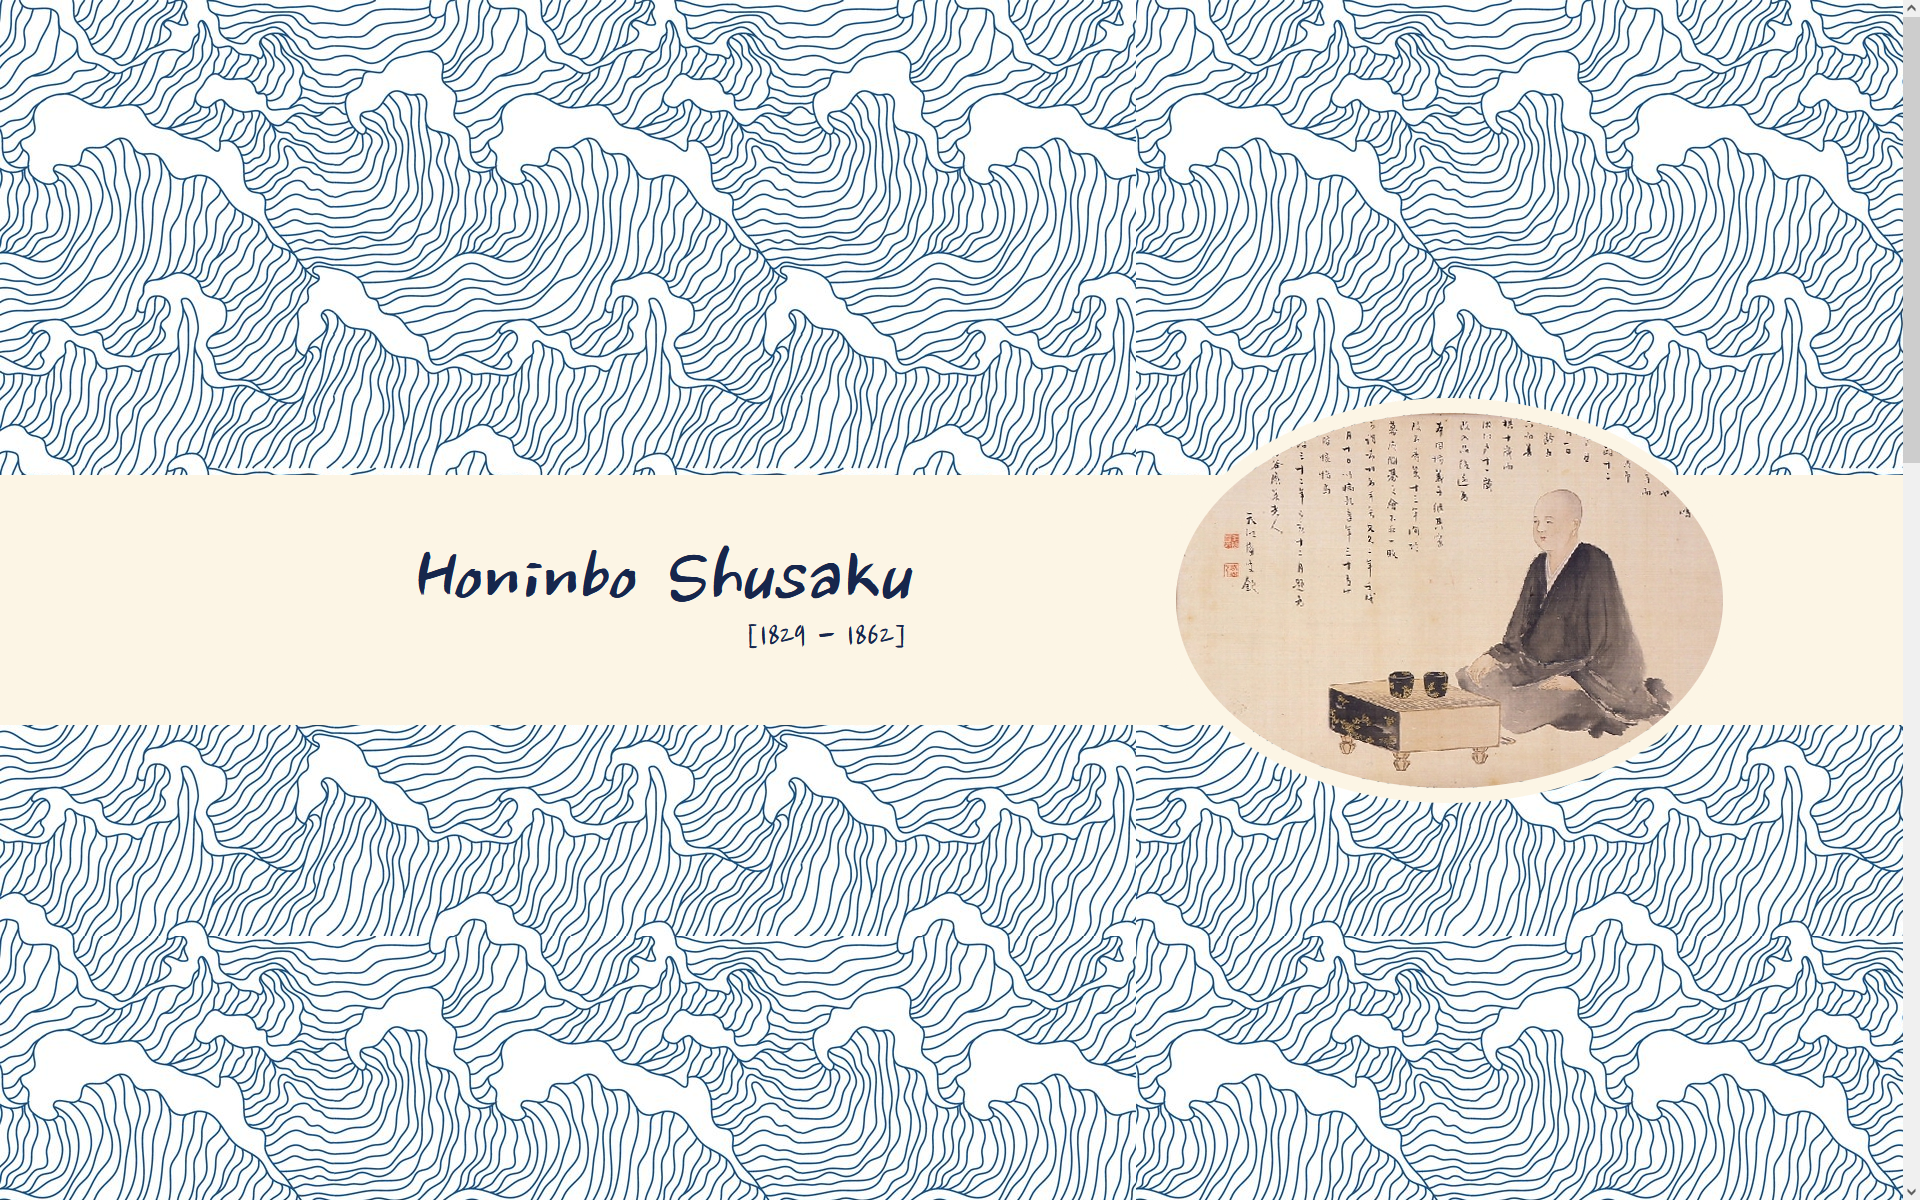
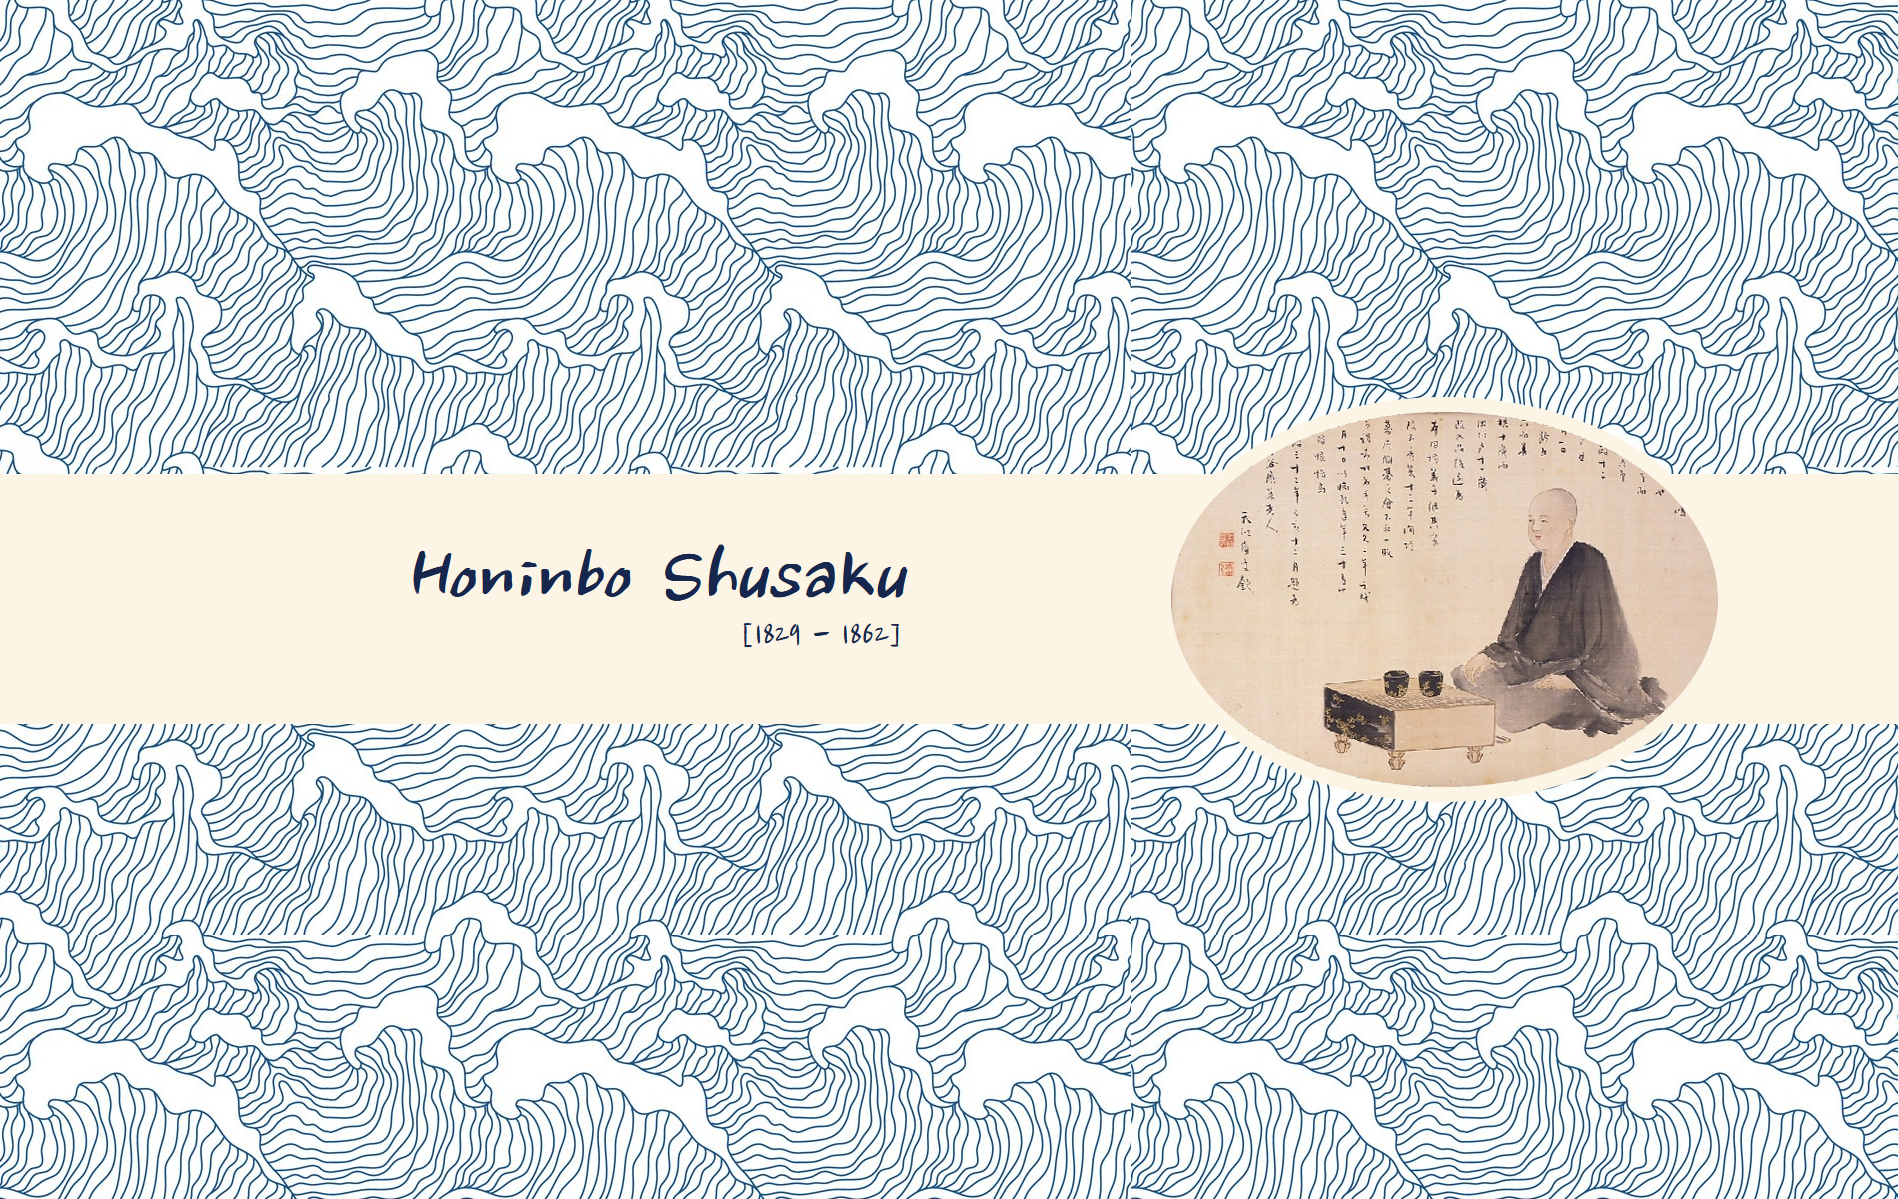
README update, screenshot update

diff --git a/RWD2 - Tribute Page/README.md b/RWD2 - Tribute Page/README.md
@@ -14,13 +14,12 @@ Build an app that is functionally similar to [https://tribute-page.freecodecamp.
     5.Within the #img-div element, you should see an element with a corresponding id="img-caption" that contains textual content describing the image shown in #img-div. ✔
     6.You should see an element with a corresponding id="tribute-info", which contains textual content describing the subject of the tribute page.
     7.You should see an a element with a corresponding id="tribute-link", which links to an outside site, that contains additional information about the subject of the tribute page. ✔
-    8.Your #image should use max-width and height properties to resize responsively, relative to the width of its parent element, without exceeding its original size.
-    9.Your img element should be centered within its parent element.
+    8.Your #image should use max-width and height properties to resize responsively, relative to the width of its parent element, without exceeding its original size. ✔
+    9.Your img element should be centered within its parent element. ✔
 
 
 ## Completed Project
-- [**LIVE LINK**](#)
+- [**LIVE LINK**](https://honinbo-shusaku-tribute.netlify.app/)
 - [Old version of the project](https://codepen.io/bradypusMagnus/pen/poraoRQ)
 
-✔
-
+tags: _Flex Box_, _Responsive_, _Less_
